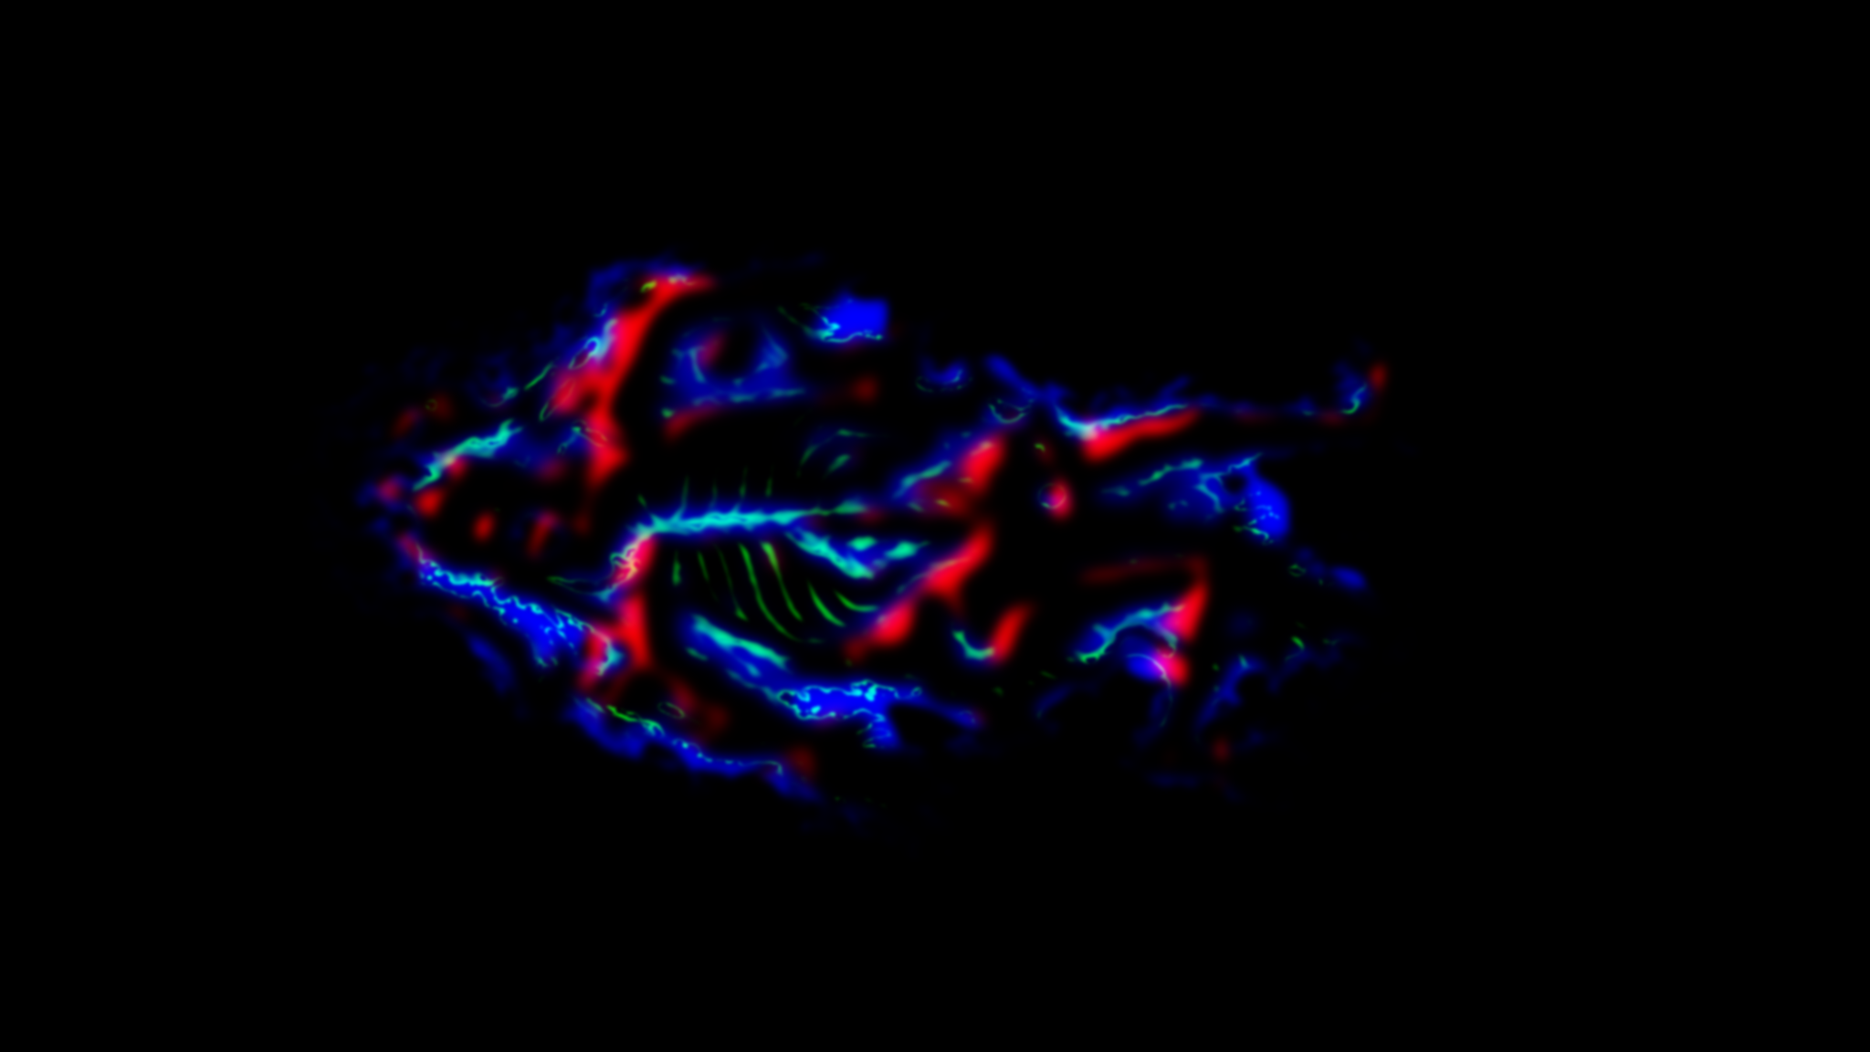
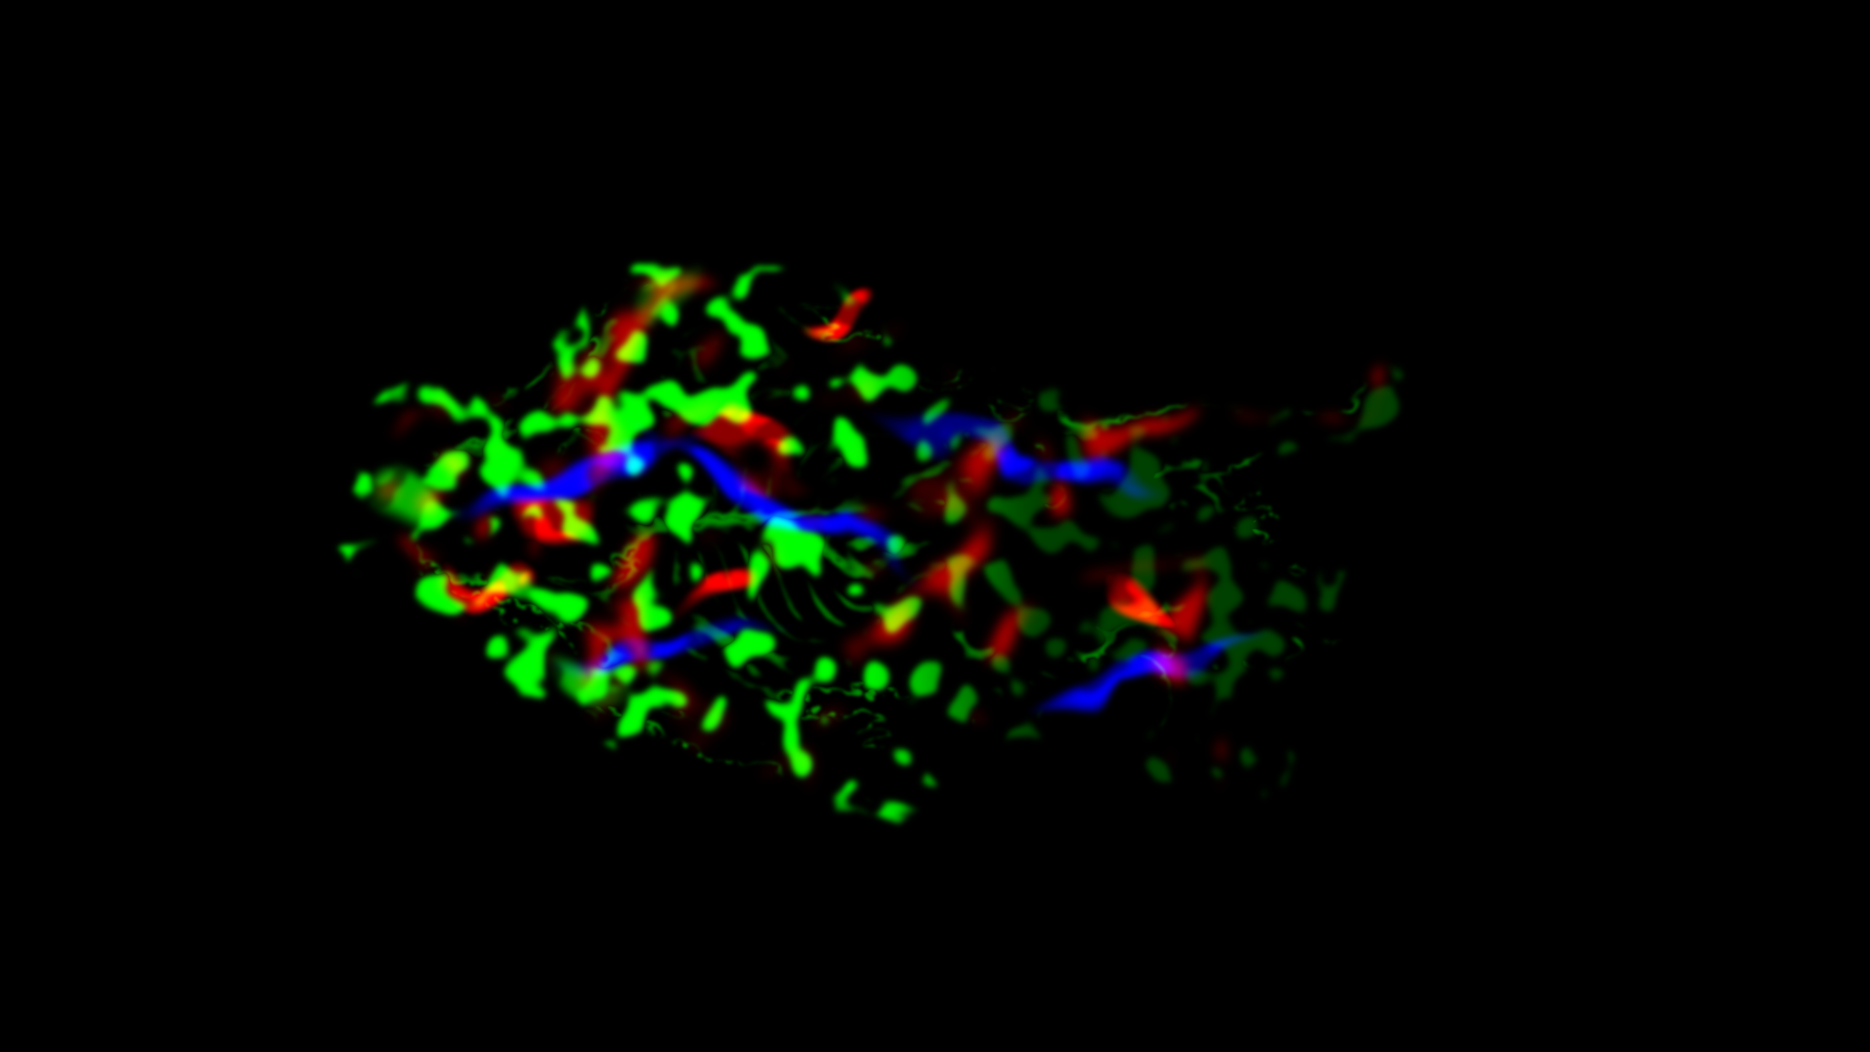
Reveal sky: weather at three heights over the land (stratus pooled to a level against the relief, a broken middle deck, ice streaks in swaths)

Changed region(s): [[0.1562, 0.2188, 0.75, 0.7812]]

diff --git a/src/places/reveal/shared/weather.ts b/src/places/reveal/shared/weather.ts
@@ -5,6 +5,8 @@ import { AT, KM, X, Z } from './anchors';
 
 /** The rectangle of the world the picture of the cover lies on: x and z of its corner, one over its width and its height. */
 export const COVER_RECT: [number, number, number, number] = [X(-900), Z(-820), 1 / (8500 * KM), 1 / (((8500 * 9) / 16) * KM)];
+/** The rectangle of the land's widest relief (land/relief-a.png, the first of land/levels.ts), as COVER_RECT is given. */
+export const GROUND_RECT: [number, number, number, number] = [X(2983.67 - 5295.59 / 2), Z(1727.13 - (5295.59 * 9) / 32), 1 / (5295.59 * KM), 1 / (((5295.59 * 9) / 16) * KM)];
 /** Height over the sea, km: the low field of small cloud, the fronts, the veil of ice. */
 export const LOW_KM = 2.6;
 export const HIGH_KM = 10.5;
@@ -240,8 +242,7 @@ vec2 highUvSheet = vec2(0.0);
 vec2 highUvThread = vec2(0.0);
 // The ice without the fall of its tops (what a shadow needs).
 float highDepth(vec2 at) {
-  float far = smoothstep(300.0, 1100.0, length(at - vec2(${f(X(AT.lake.x))}, ${f(Z(AT.lake.y))})));
-  if (far <= 0.0) return 0.0;
+  float far = smoothstep(240.0, 520.0, length(at - vec2(${f(X(AT.lake.x))}, ${f(Z(AT.lake.y))})));
   vec2 hv = at + uTime * vec2(6.5, -3.8);
   vec2 hs = hv;
   if (uLive > 0.0) {
@@ -250,6 +251,11 @@ float highDepth(vec2 at) {
   }
   highUvSheet = mat2(0.9, 0.44, -0.44, 0.9) * hv / 1900.0 + vec2(0.2, 0.6);
   highUvThread = mat2(0.84, 0.54, -0.54, 0.84) * hs / vec2(1250.0, 900.0) + vec2(0.7, 0.2);
+  // (Over the land the ice lies in long swaths across the ranges (sky/banks.png, blue), carried on its own wind with the rest.)
+  vec2 highUvFibre = mat2(0.97, 0.26, -0.26, 0.97) * hv / vec2(2300.0, 380.0) + vec2(0.43, 0.11);
+  vec2 uvSwath = clamp((hv - uCoverRect.xy) * uCoverRect.zw, 0.0, 1.0);
+  if (far <= 0.0) return 0.0;
+  float swath = texture2D(uBanks, uvSwath).b;
   // (Where the ice stands at all: two soft swells that cross, carried with it. They are waves and not a picture or a noise of
   // cells, so the pattern has no corner, no step and no flat for the last sun to redden: the fibre of the photographs is all the
   // outline the ice has.)
@@ -257,12 +263,16 @@ float highDepth(vec2 at) {
   vec2 h = mat2(0.5, 0.87, -0.87, 0.5) * hv;
   float wide = 0.5 + 0.5 * sin(g.x / 480.0 + 1.7 * sin(g.y / 620.0 + 0.4)) * sin(g.y / 530.0 + 1.3 * sin(g.x / 700.0 + 1.9));
   float fine = 0.5 + 0.5 * sin(h.x / 205.0 + 1.5 * sin(h.y / 260.0)) * sin(h.y / 225.0 + 1.2 * sin(h.x / 310.0 + 0.8));
-  float where = 0.8 * smoothstep(0.56, 0.96, 0.6 * wide + 0.4 * fine) * (1.0 - 0.95 * smoothstep(0.08, 0.4, sunImage(at)));
+  float where = max(0.8 * smoothstep(0.56, 0.96, 0.6 * wide + 0.4 * fine), swath * (0.75 + 0.25 * fine)) * (1.0 - 0.95 * smoothstep(0.08, 0.4, sunImage(at)));
   if (where <= 0.0) return 0.0;
   float sheet = cloudIn(uMatVeil, highUvSheet, 0.27);
   float thread = cloudIn(uMatStreaks, highUvThread, 0.31);
+  // (In a swath over the land the ice is a little thicker, so its streaks and the shadow they throw are seen to cross the ranges.)
   float depth = sheet * mix(1.0, thread, 0.55) * where * 1.7 - 0.85;
-  return (1.0 - exp(-1.1 * max(depth, 0.0))) * far;
+  // (There the same fibre is read drawn out six to one along the wind, so it comes as long thin streaks and not as a sheet.)
+  float fibre = cloudIn(uMatStreaks, highUvFibre, 0.31);
+  float streaked = smoothstep(0.0, 0.3, swath) * clamp(0.9 * (fibre * (0.4 + 0.6 * thread) * (0.35 + 0.85 * swath) - 1.0), 0.0, 1.0);
+  return max(1.0 - exp(-1.1 * max(depth, 0.0)), streaked) * far;
 }
 
 float highField(vec2 at) {
@@ -299,7 +309,8 @@ float bankDepth(vec2 bankAt) {
   float fine = 1.0;
   bankNear = 1.0 - smoothstep(420.0, 600.0, uViewKm);
   if (bankNear > 0.0) fine = mix(1.0, cloudIn(uMatSpecks, bankUvB, 0.2), bankNear);
-  float today = smoothstep(0.32, 0.6, texture2D(uCloudTile, uvToday, 3.0).b);
+  // (The middle deck, the strongest of the picture, stands on every day.)
+  float today = max(smoothstep(0.32, 0.6, texture2D(uCloudTile, uvToday, 3.0).b), smoothstep(0.4, 0.62, held));
   // (A bank is the wind's own cloud, caught: it is drawn out along the wind in streaks as the low field is, torn where the streak
   // photograph is clear and thin round its clusters, so no bank has the outline of the range that holds it.)
   float drawn = cloudIn(uMatStreaks, uvDrawn, 0.31);
@@ -316,6 +327,8 @@ float bankDepth(vec2 bankAt) {
   float thin = 0.3 * max(drawn * 1.6 * gather - 0.5, 0.0);
   return (dense + thin) * smoothstep(0.02, 0.2, gather) - 0.001;
 }
+vec2 fogUv = vec2(0.0);
+float fogVeil = 1.0;
 float fogDepth(vec2 fogAt) {
   float held = texture2D(uBanks, clamp((fogAt - uCoverRect.xy) * uCoverRect.zw, 0.0, 1.0)).g;
   float clear = smoothstep(100.0, 230.0, length(fogAt - vec2(${f(X(AT.lake.x))}, ${f(Z(AT.lake.y))})));
@@ -324,21 +337,15 @@ float fogDepth(vec2 fogAt) {
   if (uLive > 0.0) w -= uWx * vec2(3.0, -2.0);
   vec2 uvVeil = mat2(0.5, 0.87, -0.87, 0.5) * w / 520.0 + vec2(0.4, 0.9);
   vec2 uvToday = fogAt / 1900.0 + vec2(0.83, 0.37);
-  if (held * clear <= 0.004) return -0.5;
+  fogUv = uvVeil;
+  if (held * clear <= 0.004) return 0.0;
   // (Fog lies level: its top has the soft fibre of a veil and no lumps, and it thins up the slopes through that fibre.)
   float veil = cloudIn(uMatVeil, uvVeil, 0.27);
-  float today = smoothstep(0.34, 0.62, texture2D(uCloudTile, uvToday, 3.0).b);
-  return held * today * clear * (0.3 + 0.9 * veil) * 1.5 - 0.5;
-}
-
-// The haze that pools over low ground (sky/banks.png, blue): 0 to 1. It lies in the plains and on the wide valley floors and the
-// ranges stand out of it; it is thicker on some days' reaches than on others, and has no edge.
-float hazeAt(vec2 xz) {
-  float pooled = texture2D(uBanks, clamp((xz - uCoverRect.xy) * uCoverRect.zw, 0.0, 1.0)).b;
-  if (pooled <= 0.004) return 0.0;
-  vec2 w = xz - uTime * vec2(0.5, -0.3);
-  if (uLive > 0.0) w -= uWx * vec2(2.0, -1.2);
-  return pooled * (0.45 + 0.55 * smoothstep(0.3, 0.62, texture2D(uCloudTile, w / 2300.0 + vec2(0.27, 0.59), 3.0).b));
+  fogVeil = veil;
+  float today = 0.55 + 0.45 * smoothstep(0.34, 0.62, texture2D(uCloudTile, uvToday, 3.0).b);
+  // (How far a pool is filled, 0 to 1, with the fibre of its top: the sheet that draws it sets this against the height of the
+  // ground, so the stratus lies in the valleys and its edge is the ground's own contour.)
+  return held * today * clear * (0.8 + 0.3 * veil);
 }
 
 // The share of the sun that reaches a point of the ground under the cloud. Each height of cloud throws its own shadow, as far from
@@ -349,10 +356,11 @@ float cloudShade(vec2 xz) {
   float lift = mix(1.0, 3.0, smoothstep(150.0, 700.0, uViewKm));
   float low = 1.0 - exp(-1.3 * max(lowDepth(xz + toSun * ${LOW_KM.toFixed(1)} * lift), 0.0));
   float high = highDepth(xz + toSun * ${HIGH_KM.toFixed(1)} * lift);
-  float bank = 1.0 - exp(-1.3 * max(bankDepth(xz + toSun * ${BANK_KM.toFixed(1)} * lift), 0.0));
+  // (The middle deck stands well off the ground, and its shadow is drawn well off it: that is what tells its height.)
+  float bank = 1.0 - exp(-1.3 * max(bankDepth(xz + toSun * ${BANK_KM.toFixed(1)} * 1.5 * lift), 0.0));
   float standing = coverAt(xz + toSun * 6.5 * lift).b;
   // The cyclone shades the sea: a soft shadow, thrown well away from the sun.
   float fromStorm = length(xz + toSun * 110.0 - vec2(${f(X(AT.cyclone.x))}, ${f(Z(AT.cyclone.y))})) / ${f(1250 * KM)};
   float stormShade = pow(1.0 - smoothstep(0.02, 0.48, fromStorm), 1.3) * uArrive;
-  return (1.0 - mix(0.55, 0.78, smoothstep(300.0, 900.0, uViewKm)) * smoothstep(0.04, 0.6, low)) * (1.0 - 0.22 * high * uArrive) * (1.0 - 0.6 * bank * uArrive) * (1.0 - 0.16 * standing * uArrive) * (1.0 - 0.13 * stormShade);
+  return (1.0 - mix(0.55, 0.78, smoothstep(300.0, 900.0, uViewKm)) * smoothstep(0.04, 0.6, low)) * (1.0 - 0.3 * high * uArrive) * (1.0 - 0.8 * bank * uArrive) * (1.0 - 0.16 * standing * uArrive) * (1.0 - 0.13 * stormShade);
 }`;

diff --git a/src/places/reveal/sky/index.ts b/src/places/reveal/sky/index.ts
@@ -6,7 +6,7 @@ import { AT, KM, LIMB, LIMB_FOLLOW, LIVE_FROM, RISE_FIRST, X, Z, driftAt } from 
 import { FPS } from '../../../config';
 import type { Context, Piece } from '../shared/context';
 import { NOISE_GLSL, RIG_GLSL } from '../shared/glsl';
-import { BANK_KM, FOG_KM, HIGH_KM, LOW_KM, WEATHER_GLSL } from '../shared/weather';
+import { BANK_KM, FOG_KM, GROUND_RECT, HIGH_KM, LOW_KM, WEATHER_GLSL } from '../shared/weather';
 
 export const PARTS = ['cloud', 'cyclone', 'storm', 'vapour', 'space', 'atmosphere'] as const;
 
@@ -60,6 +60,8 @@ ${RIG_GLSL}
 ${NOISE_GLSL}
 ${WEATHER_GLSL}
 ${CLOUD_LIGHT_GLSL}
+uniform sampler2D uGround;
+uniform vec4 uGroundRect;
 varying vec3 vWorld;
 void main() {
   vec2 xz = vWorld.xz;
@@ -84,7 +86,24 @@ void main() {
   if (bankIs > 0.0 && bankNear > 0.0) bankSlope += bankNear * 0.7 * (texture2D(uMatSpecksNh, bankUvB).rg * 2.0 - 1.0) * BANK_B;
   float bankSelf = clamp(0.5 + 1.25 * dot(bankSlope, toSun), 0.0, 1.0);
   float bankA = (1.0 - exp(-1.3 * bankIs)) * uArrive;
-  float fogA = 0.5 * (1.0 - exp(-1.2 * max(fogDepth(fogAt), 0.0))) * uArrive;
+  // Stratus fills its pools to a level: what stands in the way of the light is how far the ground lies under that level.
+  // (The height is the land's own widest relief, so the edge of the stratus is the contour of the valley it lies in.)
+  float pool = fogDepth(fogAt);
+  vec2 uvGround = (fogAt - uGroundRect.xy) * uGroundRect.zw;
+  vec2 uvDrawnOut = LOW_A * (fogAt - uTime * vec2(0.9, -0.5)) / vec2(620.0, 330.0) + vec2(0.17, 0.58);
+  float fogIs = 0.0;
+  if (pool > 0.0) {
+    float height = texture2D(uGround, clamp(uvGround, 0.0, 1.0)).b;
+    // (The relief holds the shelf and the sounds a little over its sea level: all of that is water, and level.)
+    fogIs = 6.0 * max(0.36 + 0.03 * smoothstep(0.0, 0.25, pool) + 0.3 * pool - max(height, 0.4), 0.0);
+    // (On open water nothing holds it to a level: there it is torn along the wind into the fibre of its own top and thins away.)
+    float drawnOut = cloudIn(uMatStreaks, uvDrawnOut, 0.31);
+    fogIs *= mix(1.0, clamp(1.5 * fogVeil * drawnOut - 1.0, 0.0, 1.0), 1.0 - smoothstep(0.34, 0.42, height));
+  }
+  float fogA = 0.9 * (1.0 - exp(-1.2 * fogIs)) * uArrive;
+  vec2 fogSlope = vec2(0.0);
+  if (fogIs > 0.0) fogSlope = (texture2D(uMatVeilNh, fogUv).rg * 2.0 - 1.0) * mat2(0.5, 0.87, -0.87, 0.5);
+  float fogSelf = clamp(0.5 + 0.3 * dot(fogSlope, toSun), 0.0, 1.0);
   // (Read in every pixel, cloud under it or not: read only under cloud, the pixels at the edge of a cloud took the fineness of
   // the read from neighbours that had not made it, and one of them came out a level different from one run to the next.)
   float under = highDepth(xz + uSunDir.xz / max(uSunDir.y, 0.2) * ${(HIGH_KM - LOW_KM).toFixed(1)});
@@ -93,7 +112,8 @@ void main() {
   vec3 highColour = cloudLight(up, 0.5 + 0.45 * highFlank, 0.5 + 0.5 * high, 1.0);
   vec3 bankColour = cloudLight(bankAt, 0.12 + 0.95 * bankSelf, 0.35 + 0.65 * bankA, 0.25) * (0.72 + 0.5 * clamp(bankIs / 3.5, 0.0, 1.0));
   // (Fog is seen from above as a level pale floor, a little blue, with no relief of its own.)
-  vec3 fogColour = cloudLight(fogAt, 0.5, 0.5, 0.0) * vec3(0.84, 0.9, 0.98);
+  // (Stratus has a top all the same: long low swells that the sun grazes, and it is thin and blue toward its edge.)
+  vec3 fogColour = cloudLight(fogAt, 0.22 + 0.6 * fogSelf, 0.4 + 0.5 * clamp(fogIs, 0.0, 1.0), 0.0) * mix(vec3(0.58, 0.7, 0.9), vec3(0.74, 0.8, 0.9), clamp(fogIs * 0.7, 0.0, 1.0));
   // Over the sun's image on the sea the low air is lit from behind: it scatters the sun forward, warm, so the sheet of light
   // is gold through it and not the white of the bare glitter.
   // (No haze is laid over the low land: pooled there it read as grey smears on glass and flattened the ranges.)
@@ -113,7 +133,7 @@ void main() {
   if (uLive > 0.0) sunOnSea -= uLive * vec2(-20.0, 0.0) * vec2(1.0, 0.48);
   lowColour *= 1.0 - 0.4 * smoothstep(0.2, 0.7, exp(-pow(dot(sunOnSea, sunOnSea) / 55000.0, 0.463)));
   float a = low.x * 0.96;
-  float b = high * 0.4;
+  float b = min(high * 0.46, 0.66);
   // (Held, the veil is seen: sheets of ice that cross the land against the wind of the low field.)
   if (uLive > 0.0) b *= 1.0 + 0.35 * smoothstep(0.0, 12.0, uWx);
   // From the ground up: the fog, the low field, the banks, the ice.
@@ -462,7 +482,10 @@ export function create(ctx: Context): Piece {
     uThroat: { value: throat },
     uWind: { value: wind },
   });
+  // (The stratus is filled against the land's own widest relief, blue the height: the picture and its rectangle are the land's, read only.)
   sheet('cloud', new THREE.PlaneGeometry(90000, 90000).rotateX(-Math.PI / 2).translate(0, LOW_KM, 0), CLOUD_FRAGMENT, {
+    uGround: { value: data('land/relief-a.png', false) },
+    uGroundRect: { value: new THREE.Vector4(...GROUND_RECT) },
   });
   sheet('storm', quad({ x: AT.storm.x - 40, y: AT.storm.y }, 256, 80, 7, 0.03), STORM_FRAGMENT, { uPicture: { value: data('mat/storm.jpg', false) } });
   sheet('cyclone', quad(AT.cyclone, 1250, 1250, 6, 0), CYCLONE_FRAGMENT, { uStreaks: { value: data('mat/streaks.jpg', true) } });

diff --git a/assets-src/reveal/sky/make_banks.py b/assets-src/reveal/sky/make_banks.py
@@ -5,9 +5,16 @@ src/places/reveal/shared/weather.ts (the same rectangle as cover.png).
   red    banks: where the wind of the low field (from the left of the master, a little down) is lifted by a range, cloud piles on
          the flank that faces it and thins over the crest
   green  fog: the low floors between ranges, shut in by high ground on two sides, where cold air lies
-  blue   haze: the low ground, plains and wide valley floors, read wide and soft, where haze pools under the ranges
+  blue   ice: where the thin ice far above (HIGH_KM) crosses the land, in long swaths that lie across the ranges
+         (it held the pooled haze up to the second wave; nothing read it)
 
-It is read from the relief of the widest map of the land (public/assets/reveal/land/relief-a.png, blue: the height). Nothing random.
+Since the second wave the red and the green hold more than the relief gives by itself. Red also holds a broken middle deck that
+lies across one lake of the skull massif, the jaw coast and a few of the long ranges of the chest; green also holds stratus pooled
+in some of the narrow valleys between those ranges and against the coasts that face the wind. A part of the land alone is then
+not seen whole from low down; from orbit the patches are small beside the whole.
+
+It is read from the relief of the widest map of the land (public/assets/reveal/land/relief-a.png, blue: the height). The swells that break the patches are a noise of a fixed seed: the same
+picture every run.
 Run: python3 assets-src/reveal/sky/make_banks.py   (Python 3 with numpy, scipy and Pillow)
 """
 import os
@@ -81,6 +88,74 @@ fog = ndimage.gaussian_filter(fog, 1.6)
 # (Low is told against the ground round it, as for the fog, but wider and without its limit: every floor that lies under its
 # neighbours holds some, the high plateaus none.)
 soft = ndimage.gaussian_filter(land * step(-0.01, 0.04, wide - near) * (1.0 - step(0.2, 0.45, near)), 8) * ndimage.gaussian_filter(land, 5)
-out = np.stack([bank, fog, soft], axis=-1)
+
+# The second wave: weather at three heights over the land.
+
+
+def swell(size, seed_shift=0):
+    """A smooth field, 0 to 1, of features about size texels across. Seeded: the same picture every run."""
+    raw = np.random.default_rng(7 + seed_shift).standard_normal((H, W)).astype(np.float32)
+    g = ndimage.gaussian_filter(raw, size)
+    g = (g - g.mean()) / (g.std() + 1e-9)
+    return np.clip(0.5 + 0.28 * g, 0, 1)
+
+
+def patch(cx, cy, rx, ry, turn_deg, warp):
+    """A soft patch in px of the master: 1 in its middle, 0 outside, its outline bent by a swell."""
+    t = np.deg2rad(turn_deg)
+    dx = px - cx + warp[0]
+    dy = py - cy + warp[1]
+    u = (dx * np.cos(t) + dy * np.sin(t)) / rx
+    v = (-dx * np.sin(t) + dy * np.cos(t)) / ry
+    return 1.0 - step(0.45, 1.0, np.sqrt(u * u + v * v))
+
+
+bend = (260.0 * (swell(22, 1) - 0.5), 260.0 * (swell(22, 2) - 0.5))
+broken = 0.55 + 0.45 * step(0.3, 0.62, swell(9, 3))
+# The middle deck (px of the master: middle, half lengths, turn). Across the second lake of the skull massif, along the jaw coast,
+# across three ranges of the upper chest and two of the lower, and, so the far body is not bare beside the near, by the hip and
+# over the root of the far arm.
+DECK = [
+    (1610, 1510, 250, 150, -25),
+    (1330, 1860, 340, 115, 14),
+    (2520, 1170, 340, 125, 22),
+    (2360, 1810, 270, 105, -16),
+    (4250, 1930, 300, 110, 10),
+    (2850, 640, 260, 90, -8),
+]
+deck = np.zeros((H, W), np.float32)
+for d in DECK:
+    deck = np.maximum(deck, patch(*d, bend))
+deck = ndimage.gaussian_filter(deck * broken, 2.0)
+# (The banks the ranges make stay, a little thinner: the bank on the collar stood as one bright patch from orbit.)
+bank = np.maximum(0.7 * bank, deck)
+
+# Stratus: where it is pooled. The picture holds only the pools, wide and soft; the sheet that draws it (sky/index.ts) fills each
+# pool up to a level against the height of the land itself (land/relief-a.png), so the stratus lies in the valleys, laps the
+# flanks and lets the crests stand out of it, and its edge is the ground's own contour. A pool stands highest in its middle.
+near_land = step(0.62, 0.9, ndimage.gaussian_filter(land, 6))
+# (Most about the head and the chest, which the rise sees alone and from low down; few toward the far end of the land, which is
+# only ever seen with the whole of it.)
+nearer = 1.0 - 0.75 * step(2900.0, 3900.0, px)
+pools = step(0.64, 0.8, swell(10, 4)) * near_land * nearer
+# (And two against coasts that face the wind, half on the water: px of the master.)
+for d in [(960, 1470, 190, 150, 70), (1750, 2290, 260, 120, 25), (2150, 520, 230, 110, -30)]:
+    pools = np.maximum(pools, 0.7 * patch(*d, (0.4 * bend[0], 0.4 * bend[1])) * (0.4 + 0.6 * step(0.35, 0.6, swell(7, 8))))
+fog = np.maximum(0.6 * fog, ndimage.gaussian_filter(pools, 3.0))
+
+# Ice: long swaths that cross the land at an angle unlike the ranges of the chest (those run steeply up and down the master:
+# these lie along it, a little turned).
+ICE = [
+    (1750, 1330, 700, 75, -17),
+    (2650, 1450, 800, 70, 27),
+    (2100, 2100, 620, 65, -12),
+    (3700, 1250, 760, 75, 16),
+    (4300, 2250, 600, 65, -14),
+]
+ice = np.zeros((H, W), np.float32)
+for d in ICE:
+    ice = np.maximum(ice, patch(*d, (0.5 * bend[0], 0.5 * bend[1])))
+ice = ndimage.gaussian_filter(ice * (0.5 + 0.5 * step(0.3, 0.6, swell(12, 6))), 3.0)
+out = np.stack([bank, fog, ice], axis=-1)
 Image.fromarray((np.clip(out, 0, 1) * 255 + 0.5).astype(np.uint8), 'RGB').save(os.path.join(PUB, 'sky', 'banks.png'), optimize=True)
 print('banks.png', out.shape, 'means', out.reshape(-1, 3).mean(0).round(3))

diff --git a/assets-src/reveal/sky/RECIPE.md b/assets-src/reveal/sky/RECIPE.md
@@ -38,19 +38,23 @@ y -820 to 3961.25). Where the weather stands:
 
 Made by: `assets-src/reveal/sky/make_banks.py` (Python 3 with numpy, scipy and Pillow), committed here
 From: `public/assets/reveal/land/relief-a.png` (blue: the height of the land on its widest map)
-Prompt or command: `python3 assets-src/reveal/sky/make_banks.py`, from the root of the repo; no model and no prompt, nothing random
-Takes: 3 made (first the banks and the fog, then the blue channel, then the fog read fine); the third is kept
-Why this one: its fog lies in fingers on the inland floors and not in round lumps beside the ranges or over the sounds
-Date: 2026-11-26
+Prompt or command: `python3 assets-src/reveal/sky/make_banks.py`, from the root of the repo; no model and no prompt; the only noise is of a fixed seed
+Takes: 7 made (three in the first wave; in the second: the deck and the pools as lines, which read as white sausages; the pools as patches filled to a level; the ice in wide swaths; the ice in narrow swaths); the seventh is kept
+Why this one: the cloud breaks a part of the figure (a lake of the skull, the jaw coast, a few ribs) and from orbit the whole still reads; the ice lies in narrow swaths that cross the ranges and not along the spine
+Date: 2026-11-27
 
 2048 x 1152, on the rectangle `COVER_RECT` of `src/places/reveal/shared/weather.ts`, the same as `cover.png`.
-Where the land holds cloud, computed from the relief and from nothing else; nothing painted.
-Used by: `src/places/reveal/shared/weather.ts` (`bankDepth`, `fogDepth`, `hazeAt`), read by the part `reveal/cloud`.
+Where the land holds cloud: computed from the relief, with a few patches placed by the map of the land (px of the master, listed in the script).
+Used by: `src/places/reveal/shared/weather.ts` (`bankDepth`, `fogDepth`, `highDepth`), read by the part `reveal/cloud` and by the shade on the land.
 
 - red: banks. The rise of the ground along the wind of the low field, read at the size of a whole range (60 km): cloud piles on the
-  flank that faces the wind, and only where there is land 130 km up the wind of it.
-- green: fog. The floors that lie under the ground round them, read fine (15 km), with land all round and above the sounds and the shelf.
-- blue: the low ground, plains and wide valley floors, read wide and soft (kept in the file; the place no longer lays haze from it).
+  flank that faces the wind. With it a broken middle deck in six patches: across the second lake of the skull massif, along the jaw
+  coast, across a few of the upper and of the lower ribs, and two on the far body.
+- green: stratus. The floors that lie under the ground round them (15 km), and pools near the land broken by a swell, with three
+  patches against the coasts that face the wind. The place fills each pool to a level against the land's own relief
+  (`land/relief-a.png`, read only), so the edge of the stratus is the contour of the valley it lies in.
+- blue: ice. Five narrow swaths that cross the ranges at an angle unlike their own, where the high ice is drawn out in streaks.
+  (Up to the second wave this channel held a pooled haze that nothing read.)
 
 ### What is read as data
 
